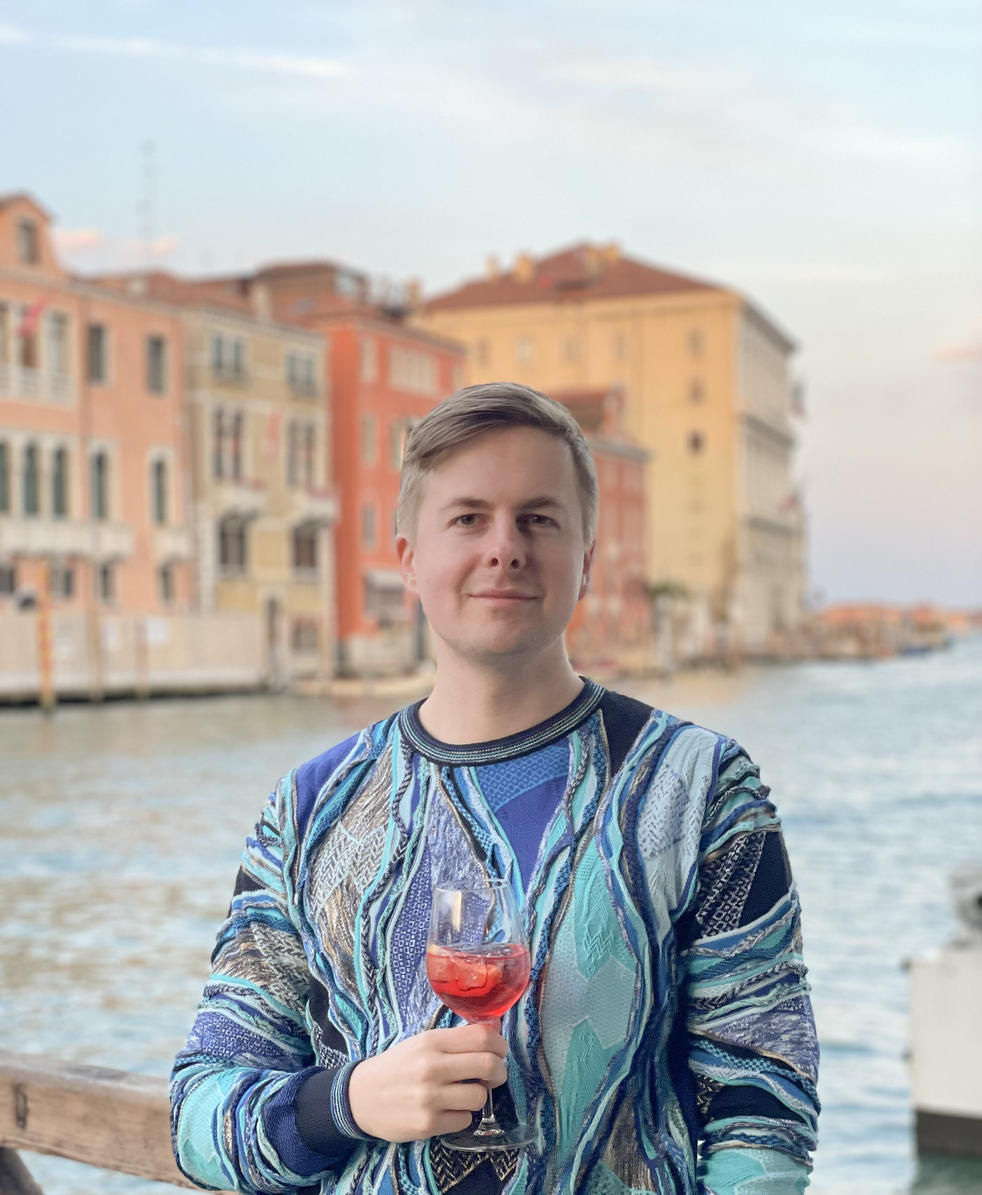
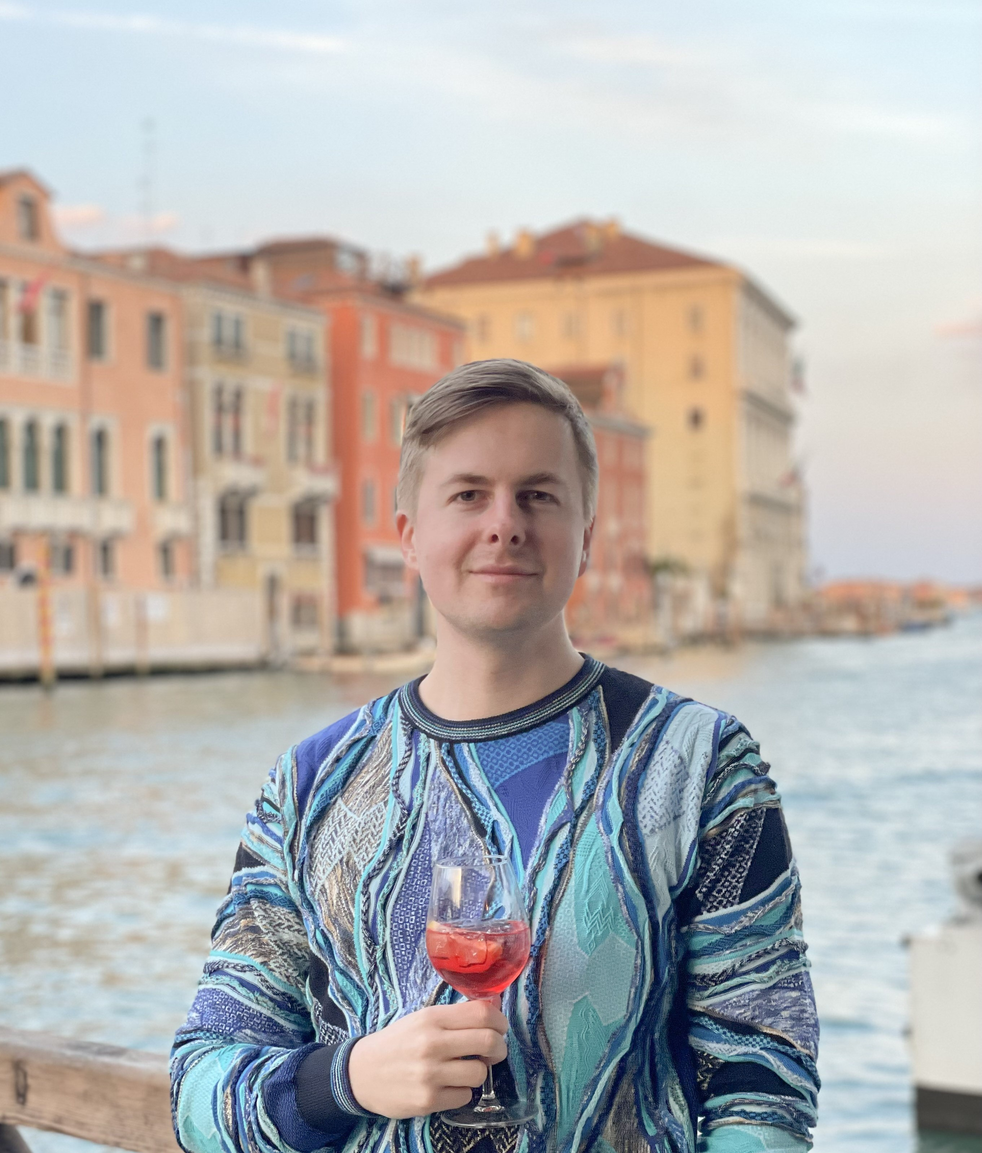
resize images

diff --git a/main.js b/main.js
@@ -1,0 +1,33 @@
+// Google Analytics integration
+(function(i,s,o,g,r,a,m){i["GoogleAnalyticsObject"]=r;i[r]=i[r]||function(){
+(i[r].q=i[r].q||[]).push(arguments)},i[r].l=1*new Date();a=s.createElement(o),
+m=s.getElementsByTagName(o)[0];a.async=1;a.src=g;m.parentNode.insertBefore(a,m)
+})(window,document,"script","//www.google-analytics.com/analytics.js","ga");
+ga("create", "UA-74324013-1", "auto");
+ga("send", "pageview");
+
+// Image rotation functionality
+document.addEventListener('DOMContentLoaded', function() {
+  const images = [
+    'images/beach.jpg',
+    'images/self2.jpg',
+    'images/self.jpg'
+  ];
+  
+  let currentIndex = 0;
+  const profileImg = document.querySelector('.float-right img');
+  
+  if (profileImg) {
+    // Set initial image
+    profileImg.src = images[currentIndex];
+    
+    // Set up click handler for the image
+    profileImg.addEventListener('click', function() {
+      currentIndex = (currentIndex + 1) % images.length;
+      profileImg.src = images[currentIndex];
+    });
+    
+    // Change the cursor to indicate it's clickable
+    profileImg.style.cursor = 'pointer';
+  }
+});

diff --git a/index.html b/index.html
@@ -6,14 +6,7 @@
     <title>
           John Loeber
     </title>
-    <script>
-        (function(i,s,o,g,r,a,m){i["GoogleAnalyticsObject"]=r;i[r]=i[r]||function(){
-        (i[r].q=i[r].q||[]).push(arguments)},i[r].l=1*new Date();a=s.createElement(o),
-        m=s.getElementsByTagName(o)[0];a.async=1;a.src=g;m.parentNode.insertBefore(a,m)
-        })(window,document,"script","//www.google-analytics.com/analytics.js","ga");
-        ga("create", "UA-74324013-1", "auto");
-        ga("send", "pageview");
-    </script>
+    <script src="main.js"></script>
 </head>
 <body>
 <div class="maintable">
@@ -27,9 +20,9 @@
         </div>
 
     <div>
-    <a href="images/self2.jpg" class='float-right'>
+    <div class='float-right'>
         <img src="images/beach.jpg" alt="picture of John Loeber">
-    </a>
+    </div>
    <div class="bio-content">
         <p>
             I am the co-founder and CEO of <a href="https://limit.com">Limit</a>. We're bringing artificial intelligence
